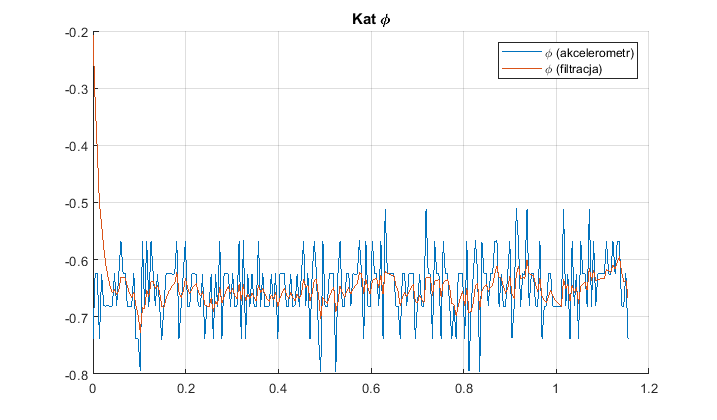
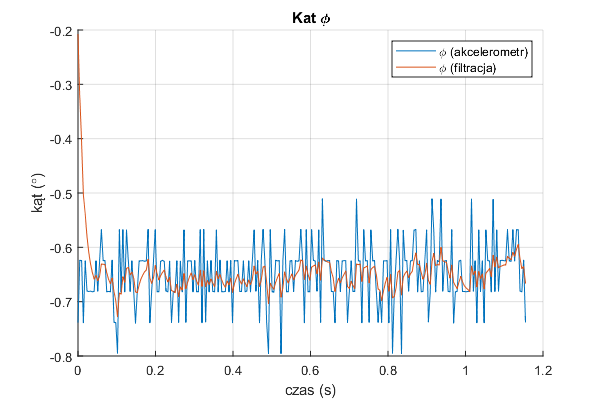
dodanie opisu osi na wykresach

diff --git a/README.md b/README.md
@@ -134,7 +134,7 @@ Kolejne wykresy przedstawia działanie filtru dla <i>ki</i>=4 oraz <i>kp</i> wyn
 <img src="https://raw.githubusercontent.com/legwan/position-estimation-filters/master/Pics/mahony_bias_off_60_4_3.png" />
 <p align="center"><i>Filtr Mahony&#39;ego - kp = 60, ki = 4</i></p>
 
-W pliku mahony\_2.m zastosowano filtr do danych z żyroskopu i akcelerometru udostępnionych przez Magwick&#39;a. W czasie odpowiadającym około 7000 próbek płytka IMU była przechylana od -90 do +90 stopni wokół każdej z osi. Dwa poniższe wykresy ilustrują dane z sensorów oraz działanie filtru dla kp = 1, ki = 1.
+Dodatkowo w pliku mahony\_2.m zastosowano filtr do danych z żyroskopu i akcelerometru udostępnionych przez Magwick&#39;a. W czasie odpowiadającym około 7000 próbek płytka IMU była przechylana od -90 do +90 stopni wokół każdej z osi. Dwa poniższe wykresy ilustrują dane z sensorów oraz działanie filtru dla kp = 1, ki = 1.
 
 <img src="https://raw.githubusercontent.com/legwan/position-estimation-filters/master/Pics/mahony2_sensors.png" />
 <p align="center"><i>Obracanie IMU - dane z sensorów</i></p>
